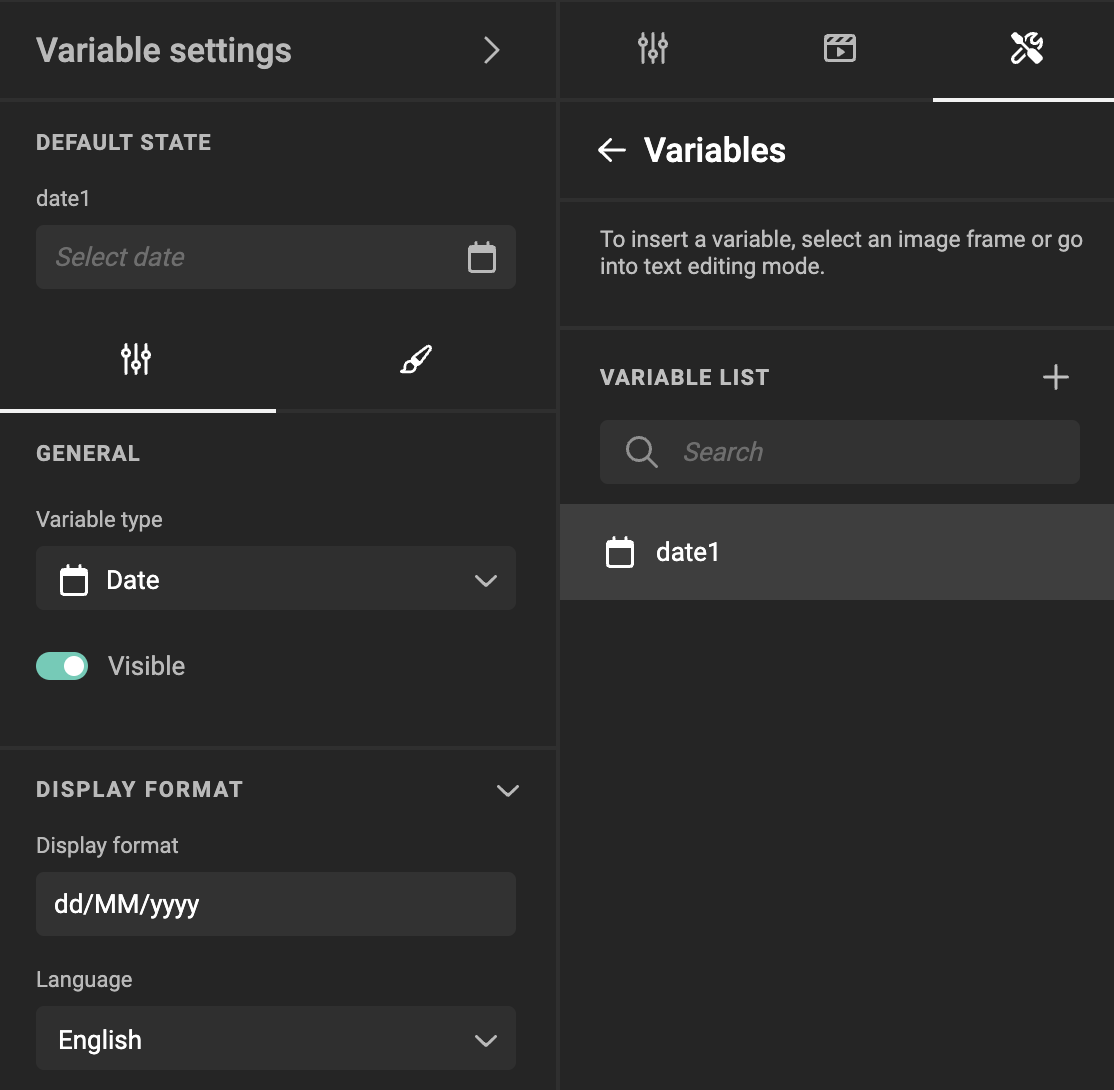
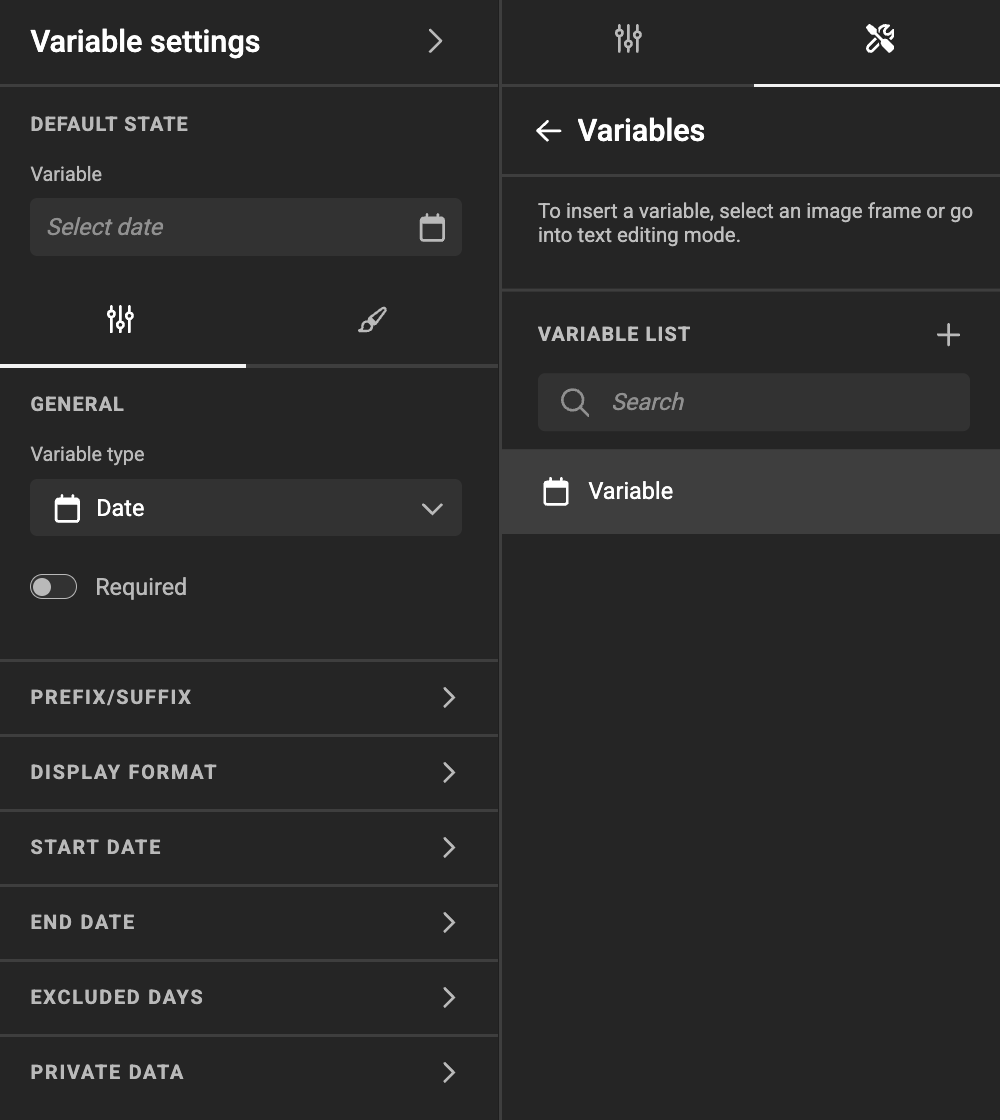
date and number variable pages, visibility conditions

diff --git a/docs/GraFx-Studio/guides/template-variables/number/index.md b/docs/GraFx-Studio/guides/template-variables/number/index.md
@@ -1,28 +1,8 @@
 # Number Variables
 
-## Create a Number Variable
+## General Properties
 
-Under the Automate icon, click Variables, and add a variable with the "+" sign.
-
-![screenshot](num0.png)
-
-Choose "Number" as the Variable Type.
-
-![screenshot-full](create-numbers.gif)
-
-## Set the Variable Name
-
-Double-click the name, or choose "Rename" under the "..." menu.
-
-![screenshot](num2.png)
-
-## Set General Properties
-
-![screenshot-full](num1.png)
-
-### Visible
-
-Defines if the variable will be visible in the [Studio UI](/GraFx-Studio/concepts/template-management/#studio-ui) to the end user.
+![screenshot-full](num3.png)
 
 ### Range
 
@@ -67,11 +47,19 @@ The symbol used to separate the integer part and the decimal part.
 
 The “thousands separator” symbol is used to group digits into sets of three for easier readability of large numbers, commonly represented by a comma (,), period (.), or other symbols depending on regional conventions.
 
-## Appearance Settings
+## User Interface
+
+![screenshot-full](num4.png)
+
+See [User Interface](../../template-variables/define/#user-interface)
 
 ### Stepper
 
 Enable or disable the visibility of a stepper button to increase or decrease the number with a value defined in the Step size.
+
+### Visibility
+
+See [Visibility Conditions](../../template-variables/visibility/)
 
 ## Use in Actions
 

diff --git a/docs/GraFx-Studio/guides/template-variables/date/index.md b/docs/GraFx-Studio/guides/template-variables/date/index.md
@@ -18,10 +18,6 @@ Double-click the name, or choose "Rename" under the "..." menu.
 
 ![screenshot-full](date2.png)
 
-### Visible
-
-Defines if the variable will be visible in the [Studio UI](/GraFx-Studio/concepts/template-management/#studio-ui) to the end user.
-
 ### Display Format
 
 A date can be displayed in several formats, depending on the local preferences. You can set a formatting string, how to display the date.
@@ -113,6 +109,10 @@ In Studio UI (My Projects), you will see what an end user can see.
 ![screenshot](date9.png)
 
 Current date is Aug 7, 2024. First possible date to select is Aug 15. Last possible date is 30 days after today: Sept 6. Saturdays and Sundays are excluded.
+
+## User Interface
+
+See [User Interface](../../template-variables/define/#user-interface) and [Visibility Conditions](../../template-variables/visibility/)
 
 ## Use in Actions
 

diff --git a/docs/GraFx-Studio/guides/template-variables/define/index.md b/docs/GraFx-Studio/guides/template-variables/define/index.md
@@ -130,6 +130,8 @@ A set of key-value pairs to assist you with automation.
 
 ### User Interface
 
+![screenshot](var14.png)
+
 ![screenshot](var08.png)
 
 These settings define how the template variable is presented:

diff --git a/docs/GraFx-Studio/guides/template-variables/visibility/index.md b/docs/GraFx-Studio/guides/template-variables/visibility/index.md
@@ -36,8 +36,6 @@ Click **+ Add Condition** and define the criteria that must be met for the varia
 
 ![screenshot-full](var12.png)
 
----
-
 ## Deprecated in Actions
 
 !!! warning "Deprecated Action"
